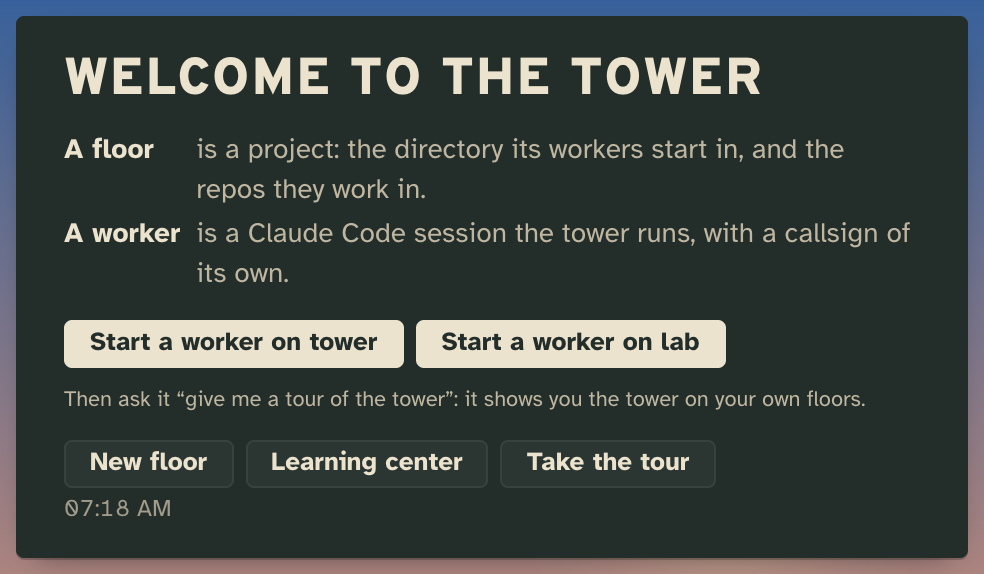
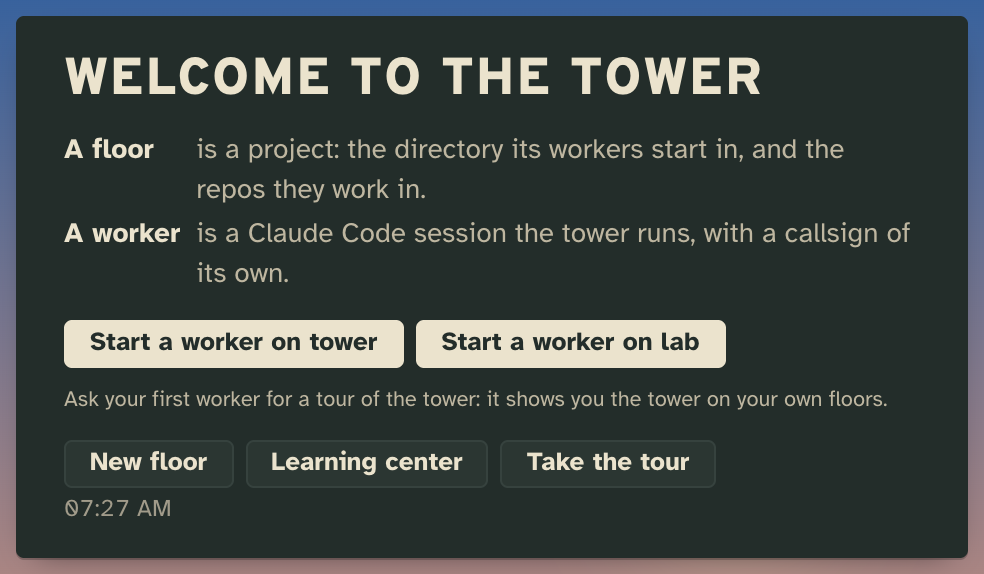
The welcome's line asks the first worker for a tour, beside the tour the greeting may offer
The line under the welcome's start buttons told the user to type a prompt that a board command beside it now runs;
it no longer says to type it, and still names no extension's command.

Changed region(s): [[0.061, 0.6812, 0.9146, 0.7108], [0.0915, 0.8589, 0.122, 0.8885]]

diff --git a/src/views/skyline.ts b/src/views/skyline.ts
@@ -110,7 +110,7 @@ export const mount: Mount = async (host, { tower, board: first, kit }) => {
     <dl><dt>A floor</dt><dd>is a project: the directory its workers start in, and the repos they work in.</dd>
       <dt>A worker</dt><dd>is a Claude Code session the tower runs, with a callsign of its own.</dd></dl>
     <div class="starts">${board.floors.map(firstWorkerHtml).join('')}</div>
-    <div class="sub">Then ask it “give me a tour of the tower”: it shows you the tower on your own floors.</div>`
+    <div class="sub">Ask your first worker for a tour of the tower: it shows you the tower on your own floors.</div>`
 
   const helloHtml = () => {
     const waiting = heededWaits(board, { dismissed }).length
